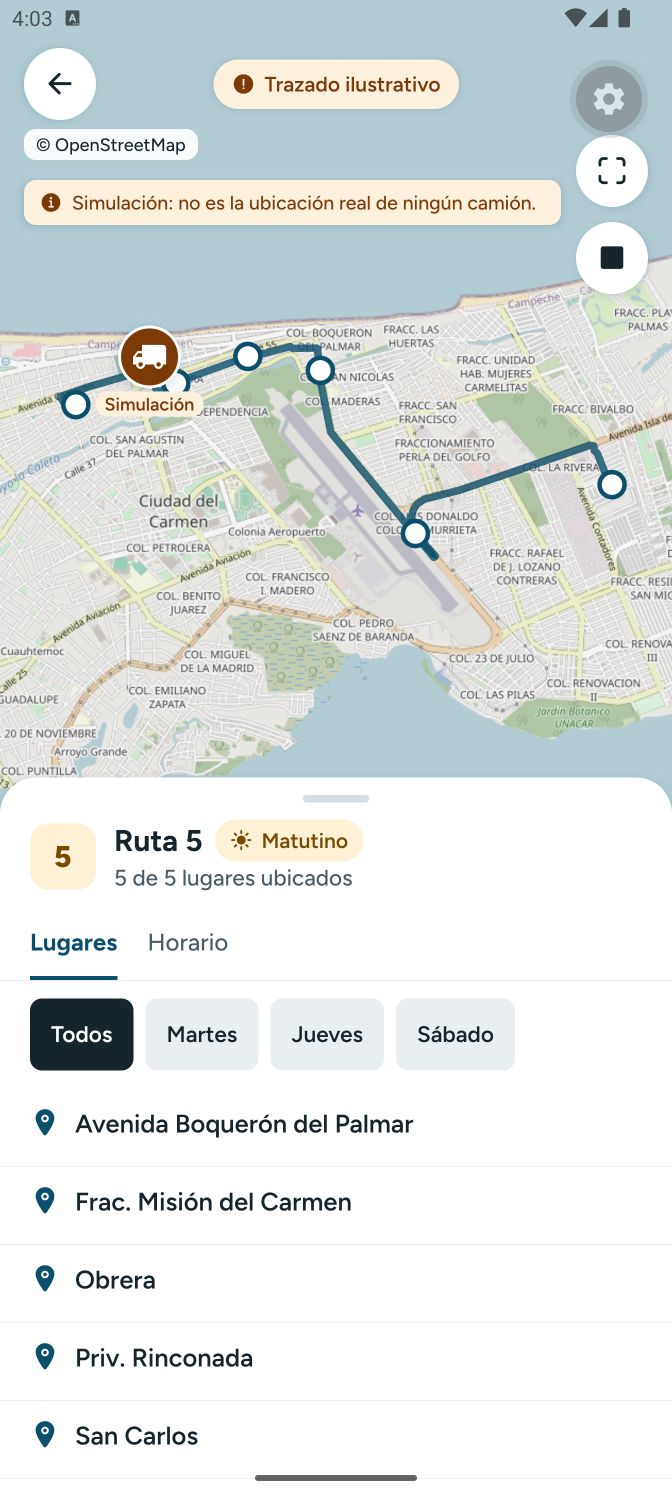
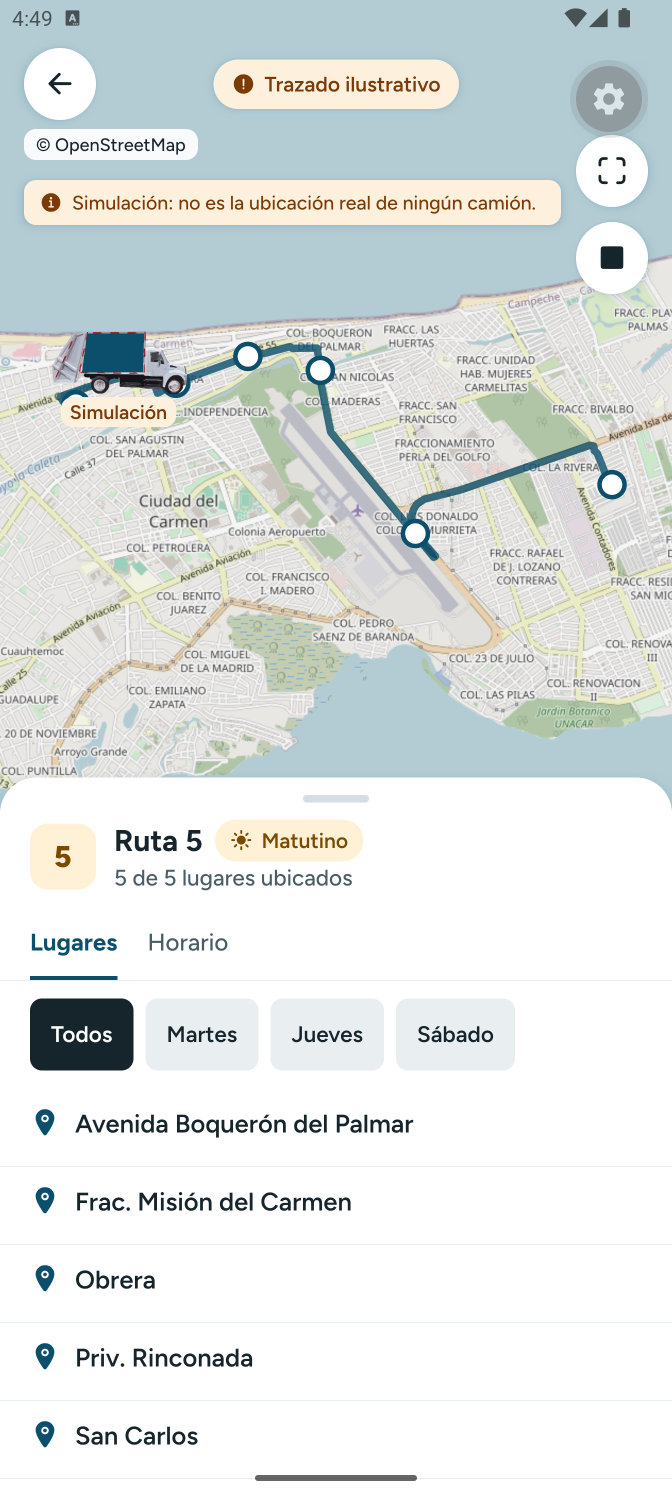
Actualiza la captura del camión y agrega el prompt de presencia visual

Changed region(s): [[0.0625, 0.2152, 0.3125, 0.3075], [0.0312, 0.0, 0.0625, 0.0307]]

diff --git a/docs/PROMPT-PRESENCIA-VISUAL.md b/docs/PROMPT-PRESENCIA-VISUAL.md
@@ -1,0 +1,164 @@
+# Carmen Limpio: prompt de presencia visual
+
+Trabaja en la rama `presencia-visual`. El objetivo es que la app deje de sentirse simple y que, desde que se abre, se vea como un producto completo y útil. **Esta etapa es solo de front: el backend queda para después.**
+
+Antes de empezar, lee `CLAUDE.md` y `docs/decisiones.md`. Sus reglas siguen vigentes. Si algo aquí las contradice, detente y pregunta.
+
+## 1. Estado actual
+
+Compruébalo antes de actuar y avísame si encuentras diferencias.
+
+**Ya existe:**
+- App: búsqueda, detalle de lugar, lista de rutas, mapa por ruta con panel deslizable y filtro por día, y camión simulado.
+- Tema propio en `apps/movil/estilos/tema.ts` y componentes en `apps/movil/componentes/ui.tsx`.
+- Panel web de consulta, con comparación de escenarios.
+- Git y GitHub. La rama `presencia-visual` parte de `simulacion-camion`, que todavía no está en `main`.
+
+**Falta:** tarjeta del día, recordatorios, reportes y avisos.
+
+**Problemas visuales detectados en el emulador:**
+- Más de la mitad del inicio está vacía, y su elemento más llamativo es el aviso de "no oficial".
+- La app no da información útil hasta que se busca una colonia.
+- No hay barra inferior.
+- La lista de rutas son ocho filas casi iguales.
+- El mapa base compite con la línea de la ruta.
+
+## 2. Cómo trabajar
+
+- Haz una etapa a la vez. Al terminar cada una, muestra capturas del emulador, qué probaste y qué falta, y espera mi visto bueno.
+- Haz commits pequeños en español. Sin `push`, PR ni fusión sin pedirlo.
+- Pon la lógica en `packages/compartido`, con pruebas.
+- Reutiliza `tema.ts` y `ui.tsx`. Agrega ahí lo que falte, sin colores ni tamaños sueltos en las pantallas.
+- Instala paquetes con `npx expo install` desde `apps/movil`, consultando la documentación de la versión instalada. Si una dependencia es nativa, avísame que hay que recompilar.
+- **No uses `react-native-reanimated` ni `react-native-gesture-handler`:** están excluidos por el límite de rutas de Windows. Usa `Animated` y `PanResponder`.
+- Registra las decisiones en `docs/decisiones.md`.
+
+**Criterios en cada pantalla:**
+- Contraste AA o superior.
+- Áreas táctiles de 48 px o más.
+- Etiquetas de accesibilidad.
+- Prueba en 720×1280 con letra al 130 %, y en el Pixel 8 Pro del emulador.
+
+**Reglas que no cambian:**
+- Muestra ventanas, nunca una hora exacta de llegada.
+- No afirmes que el camión pasó, va a pasar a cierta hora o está cerca.
+- La app sigue diciendo que no es oficial.
+- Todo trazado sigue etiquetado como ilustrativo, y OpenStreetMap sigue con atribución.
+- Nunca uses datos de `propuesta` en la app.
+
+## Etapa 1. Inicio con tarjeta "Hoy"
+
+Crea en `compartido` una función pura que reciba la fecha y los horarios de un lugar y devuelva su estado. Usa siempre `America/Merida`, sin depender de la zona del teléfono.
+
+| Estado | Mensaje de ejemplo |
+|---|---|
+| Hoy, antes de la ventana | Hoy toca recolección, de 15:00 a 23:00 |
+| Hoy, dentro de la ventana | Recolección en curso, hasta las 23:00 |
+| Hoy, ventana terminada | La ventana de hoy terminó. Próxima: jueves |
+| Otro día | Próxima recolección: martes, de 7:00 a 15:00 |
+
+- Contempla los lugares con dos rutas, las excepciones de días y la marca "por confirmar".
+- Prueba cada estado, el cambio de día y la zona horaria.
+
+**Rediseña el inicio:**
+- Tarjeta grande arriba, cuyo color cambie según el estado, con la semana en círculos (`DiasSemana`) y acceso a su mapa.
+- Sin lugar guardado, muestra una invitación clara a elegir colonia, no un espacio vacío.
+- Agrega accesos visuales a Rutas y Mapa de la ciudad.
+- Conserva el aviso de no oficial, más discreto y siempre visible en el inicio.
+- Texto y color deben comunicar lo mismo: el estado no puede depender solo del color.
+
+**Aceptación:** con un lugar guardado, el inicio responde al abrir si hoy toca. Sin lugar guardado, no se ve vacío.
+
+## Etapa 2. Barra inferior
+
+Agrega cuatro pestañas con Expo Router: **Inicio, Mapa, Reportes y Avisos**.
+
+- Conserva la navegación actual hacia detalle, rutas y mapa de ruta, y que el botón Atrás funcione bien.
+- Mantén visible la pantalla de mapa de ruta a pantalla completa, sin que la barra tape el panel.
+- Reportes y Avisos serán pantallas vacías bien diseñadas hasta sus etapas. No uses datos falsos sin etiquetar.
+
+**Aceptación:** todo lo que funcionaba sigue funcionando, y puedo moverme entre las cuatro secciones.
+
+## Etapa 3. Mapa de la ciudad
+
+- La pestaña Mapa muestra las 15 rutas del escenario `carteles` con `trazadoDeRuta`.
+- Filtros por turno y por ruta. Al tocar una línea, muestra su tarjeta y el acceso a `mapa/[rutaId]`.
+- Colores distinguibles entre rutas, pensados también para daltonismo, sin depender solo del color.
+- Mantén "Trazado ilustrativo" y la atribución de OpenStreetMap siempre visibles.
+- **Mapa base:** primero prueba bajar saturación y contraste con las propiedades `raster-*` de MapLibre, sin cambiar de proveedor. Si propones otro mapa base, revisa antes su licencia y sus límites de uso, y pregúntame.
+- Vigila el rendimiento: agrupa los trazados en una sola fuente y no dibujes 15 componentes pesados.
+- Si no hay internet, muestra un mensaje claro y deja el horario disponible.
+
+**Aceptación:** puedo ver toda la ciudad, filtrar por turno y abrir una ruta desde el mapa, con fluidez en el emulador.
+
+## Etapa 4. Lista de rutas con personalidad
+
+- Cada tarjeta lleva la silueta de su recorrido, dibujada desde el trazado `carteles`, con número, turno y cantidad de lugares.
+- Las rutas sin geometría suficiente (como V5) muestran un estado claro y no una forma engañosa.
+- Calcula la silueta en `compartido`, con pruebas.
+- Evalúa `react-native-svg`. Si se instala, confirma que compila en Windows.
+
+**Aceptación:** las rutas se distinguen a simple vista, y la lista mantiene su fluidez.
+
+## Etapa 5. Varios lugares, recordatorios y bienvenida
+
+- **Lugares:** permite guardar casa, trabajo u otros, migrando el lugar actual sin perderlo. La tarjeta "Hoy" debe funcionar para cada uno.
+- **Recordatorios locales** con `expo-notifications`, sin servidor:
+  - Opcionales y por lugar, la noche anterior o antes de que abra la ventana.
+  - Pide el permiso hasta que la persona active uno, y funciona si lo niega.
+  - Reprograma al cambiar ajustes y evita duplicados.
+- **Compartir horario** como texto con el menú nativo, incluyendo que la app no es oficial.
+- **Bienvenida de tres pantallas**, solo la primera vez y omitible: elige tu colonia, activa un recordatorio y conoce qué es la app. La tercera aclara que no es oficial y que los horarios vienen de carteles.
+
+**Aceptación:** una instalación nueva pasa por la bienvenida y termina con su lugar guardado. Un recordatorio de prueba llega en el emulador.
+
+## Etapa 6. Reportes y avisos de demostración
+
+Construye con datos locales, sin Supabase ni servicios externos.
+
+1. Crea en `compartido` interfaces de datos (`reportes`, `avisos`, `sesion`) con una implementación local, para conectar el backend después sin rehacer pantallas.
+2. Usa AsyncStorage.
+3. Construye:
+   - Acceso simulado y marcado como demostración, sin contraseñas ni datos reales.
+   - Borrador de aviso de privacidad (LFPDPPP) antes de pedir datos, señalado como pendiente de revisión.
+   - Formularios: "El camión no pasó" (colonia y fecha), "Acumulación de basura" (ubicación, descripción y foto opcional) y "Tiradero clandestino" (punto en el mapa, descripción y foto).
+   - "Mis reportes" con línea de tiempo: Recibido → En revisión → Atendido o Rechazado, con nota.
+   - Avisos con tarjetas, etiquetados como ejemplo.
+4. Di claramente que es una demostración y que el reporte **no se envía a nadie**. No sugieras que llega al municipio o a SOS.
+5. Las fotos y ubicaciones se quedan en el dispositivo. Pide permisos hasta necesitarlos.
+
+**Aceptación:** puedo crear los tres tipos de reporte y ver su línea de tiempo, sin internet ni credenciales.
+
+## Etapa 7. Detalles finales
+
+- Transiciones suaves y estados de carga con `Animated`.
+- Un pequeño camión animado en la tarjeta "Hoy", decorativo y sin insinuar su posición real. Respeta la preferencia de reducir animaciones.
+- Revisión general de espaciado, tipografía y consistencia.
+- Capturas finales de cada pantalla en `docs/capturas/`.
+
+**Aceptación:** la app se ve coherente en todas las pantallas y sigue pasando `npm run typecheck` y `npm test`.
+
+## Mascota
+
+El camarón da identidad, pero sus derechos están **sin confirmar** (ver "Logo del camarón" en `docs/decisiones.md`).
+
+- Puedes usarlo en el inicio y la bienvenida para demostraciones, mediante **un solo componente**, para reemplazarlo fácilmente.
+- No generes variantes ni expresiones nuevas a partir de esa imagen.
+- Señala en tu resumen que debe resolverse antes de publicar.
+
+## Fuera de alcance
+
+No agregues backend, Supabase, notificaciones push, GPS real, hora de llegada, puntos o rankings, chat con IA, pagos, iOS, modo oscuro ni widget de Android. Tampoco cambies el panel web en esta etapa.
+
+Los botones "Ya pasó el camión" y "Falta mi colonia" siguen sujetos a mi aprobación.
+
+Al terminar estas etapas, **el criterio final del prototipo seguirá sin cumplirse**, porque la app y el panel no comparten datos sin backend. Dilo así en tus resúmenes.
+
+## Primer mensaje que debes enviar
+
+Antes de cambiar archivos:
+1. Confirma que leíste este documento, `CLAUDE.md` y `docs/decisiones.md`.
+2. Confirma que estás en la rama `presencia-visual`.
+3. Ejecuta `npm run typecheck` y `npm test`, e informa el resultado.
+4. Señala lo que no coincida con la sección 1.
+5. Resume cómo harás la Etapa 1 y espera mi confirmación.
